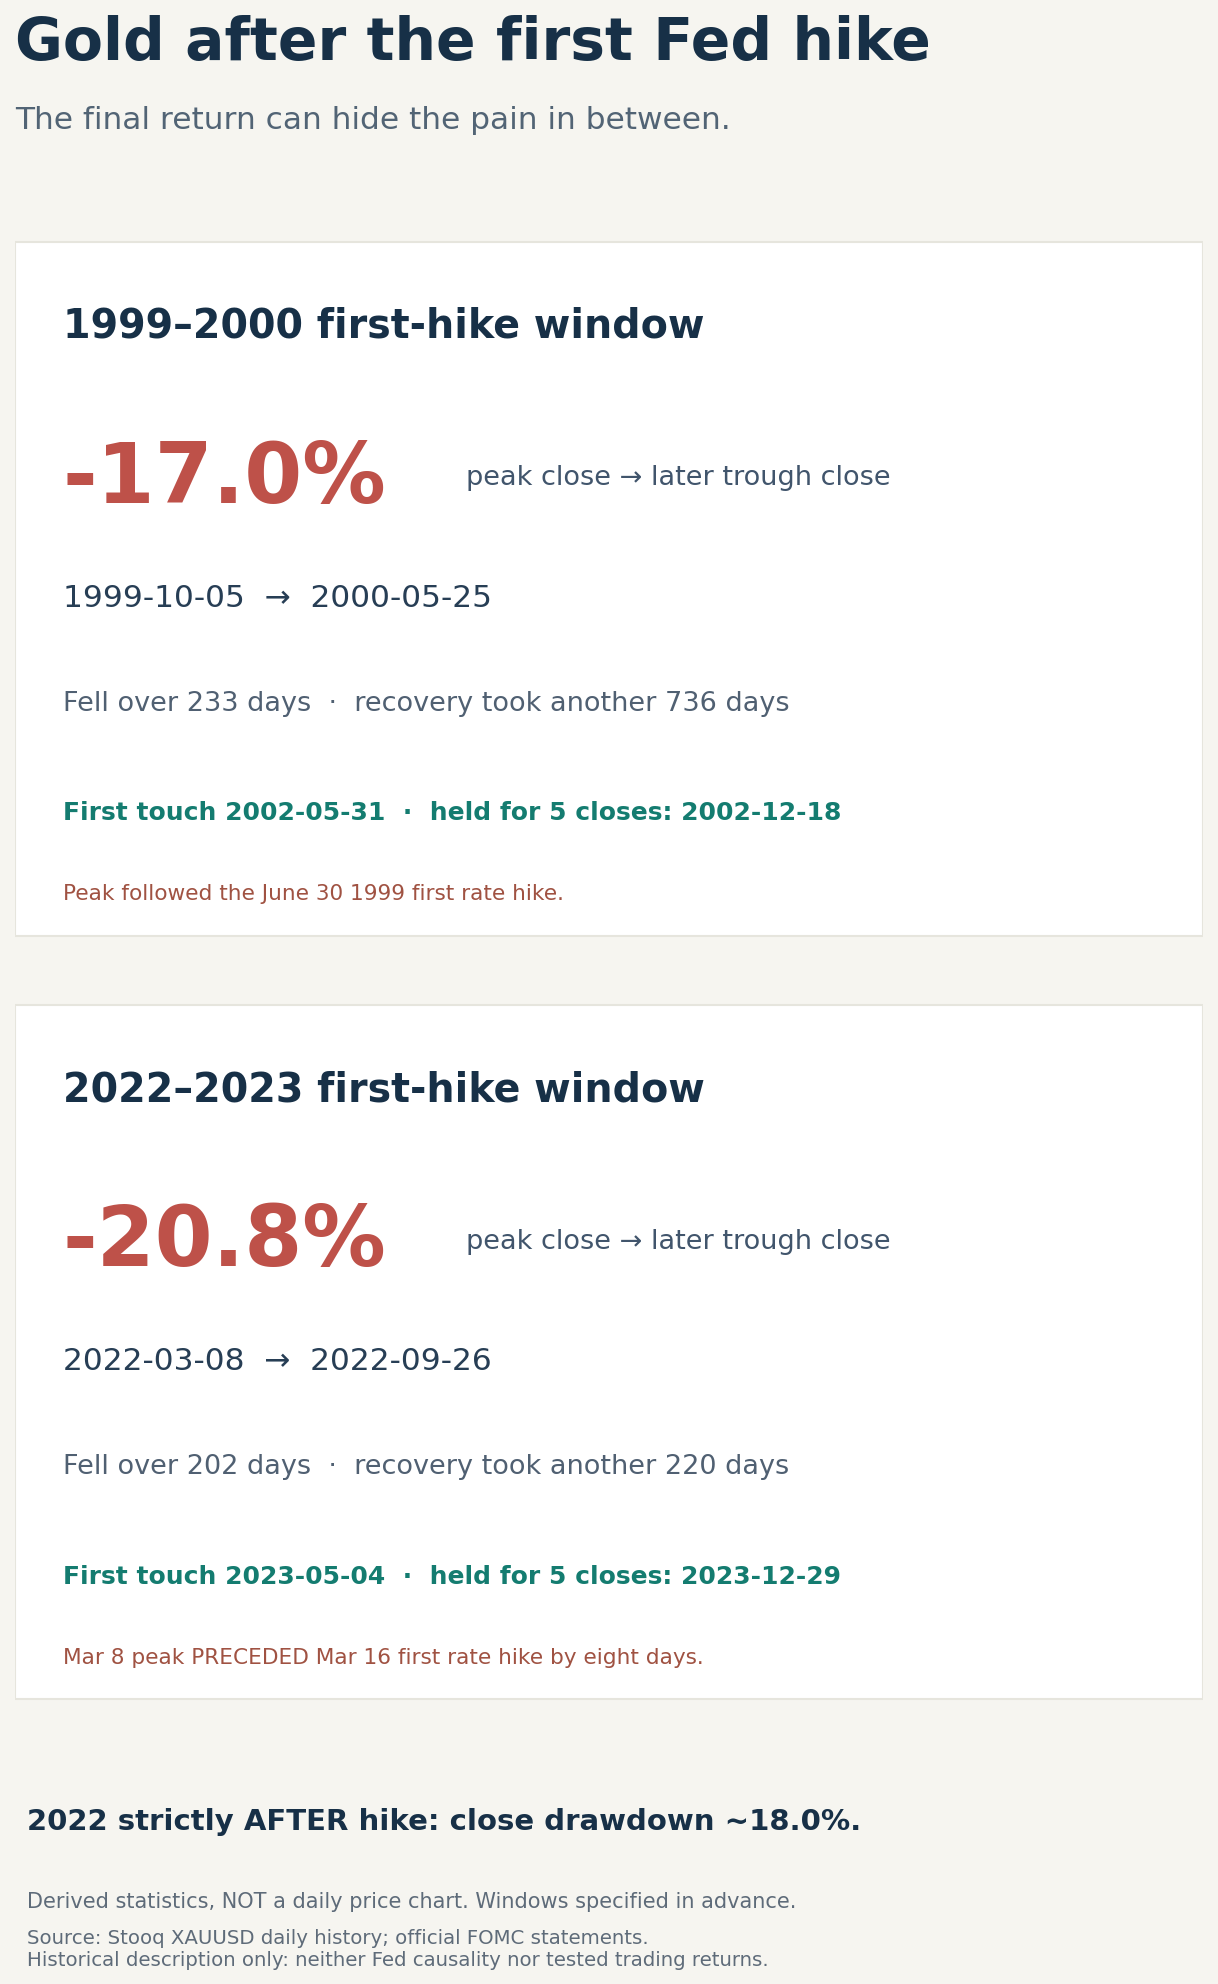
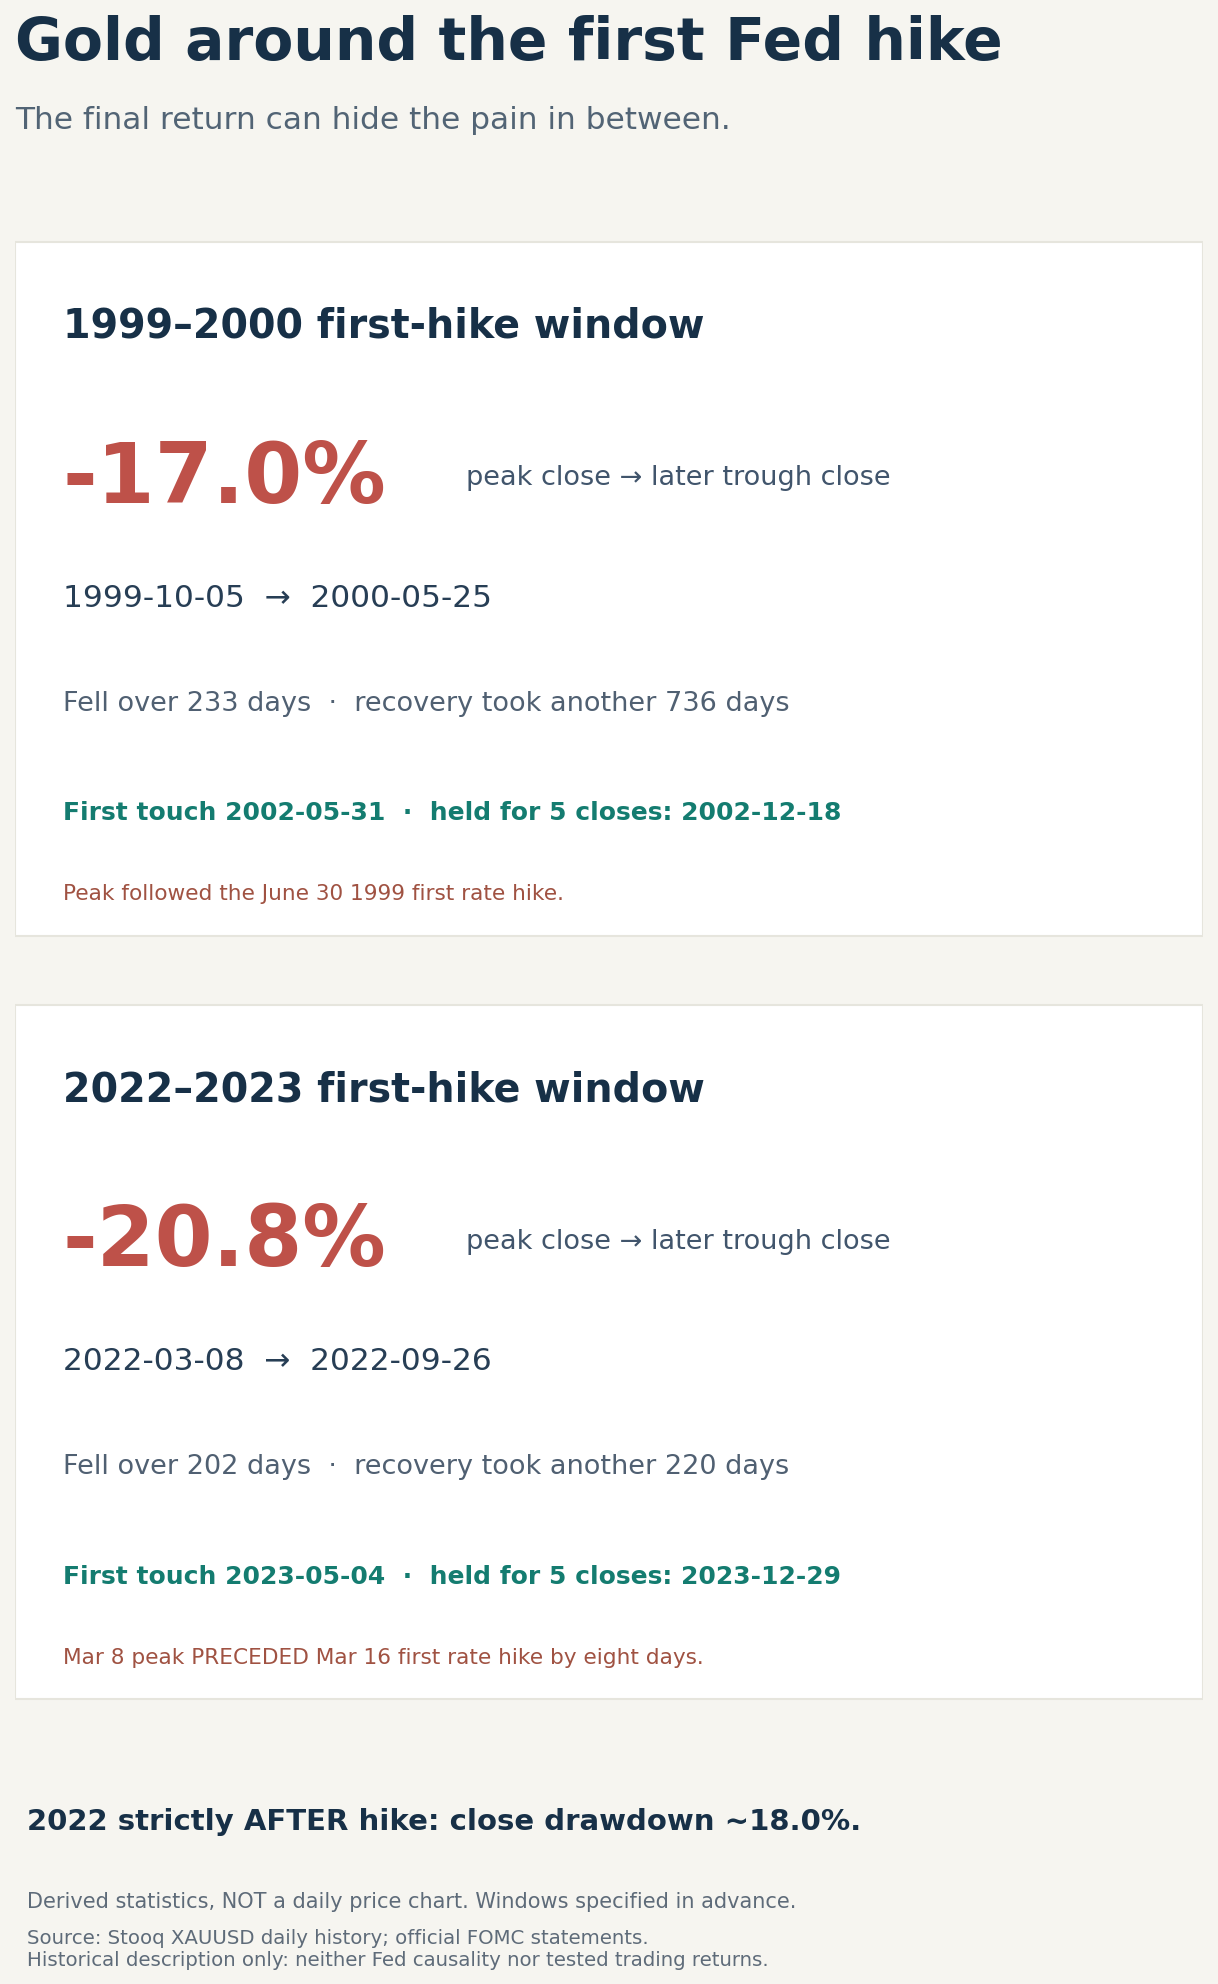
Clarify pre-hike peak in gold summary headline

Changed region(s): [[0.1872, 0.0, 0.8424, 0.0312]]

diff --git a/scripts/gold_daily_candle_046.py b/scripts/gold_daily_candle_046.py
@@ -124,7 +124,7 @@ def private_chart(d, m, year, hike, path):
 def public_card(a,b,path):
     fig=plt.figure(figsize=(9,13),facecolor="#F6F5F0")
     ax=fig.add_axes([.06,.06,.88,.89]);ax.axis('off')
-    ax.text(0,1.04,'Gold after the first Fed hike',fontsize=28,weight='bold',color='#173047',transform=ax.transAxes)
+    ax.text(0,1.04,'Gold around the first Fed hike',fontsize=28,weight='bold',color='#173047',transform=ax.transAxes)
     ax.text(0,1.00,'The final return can hide the pain in between.',fontsize=15,color='#526475',transform=ax.transAxes)
     def block(top,title,m,accent,notice=None):
         ax.add_patch(Rectangle((0,top-.405),1,.40,transform=ax.transAxes,fc='white',ec='#E6E5DD',lw=1))
